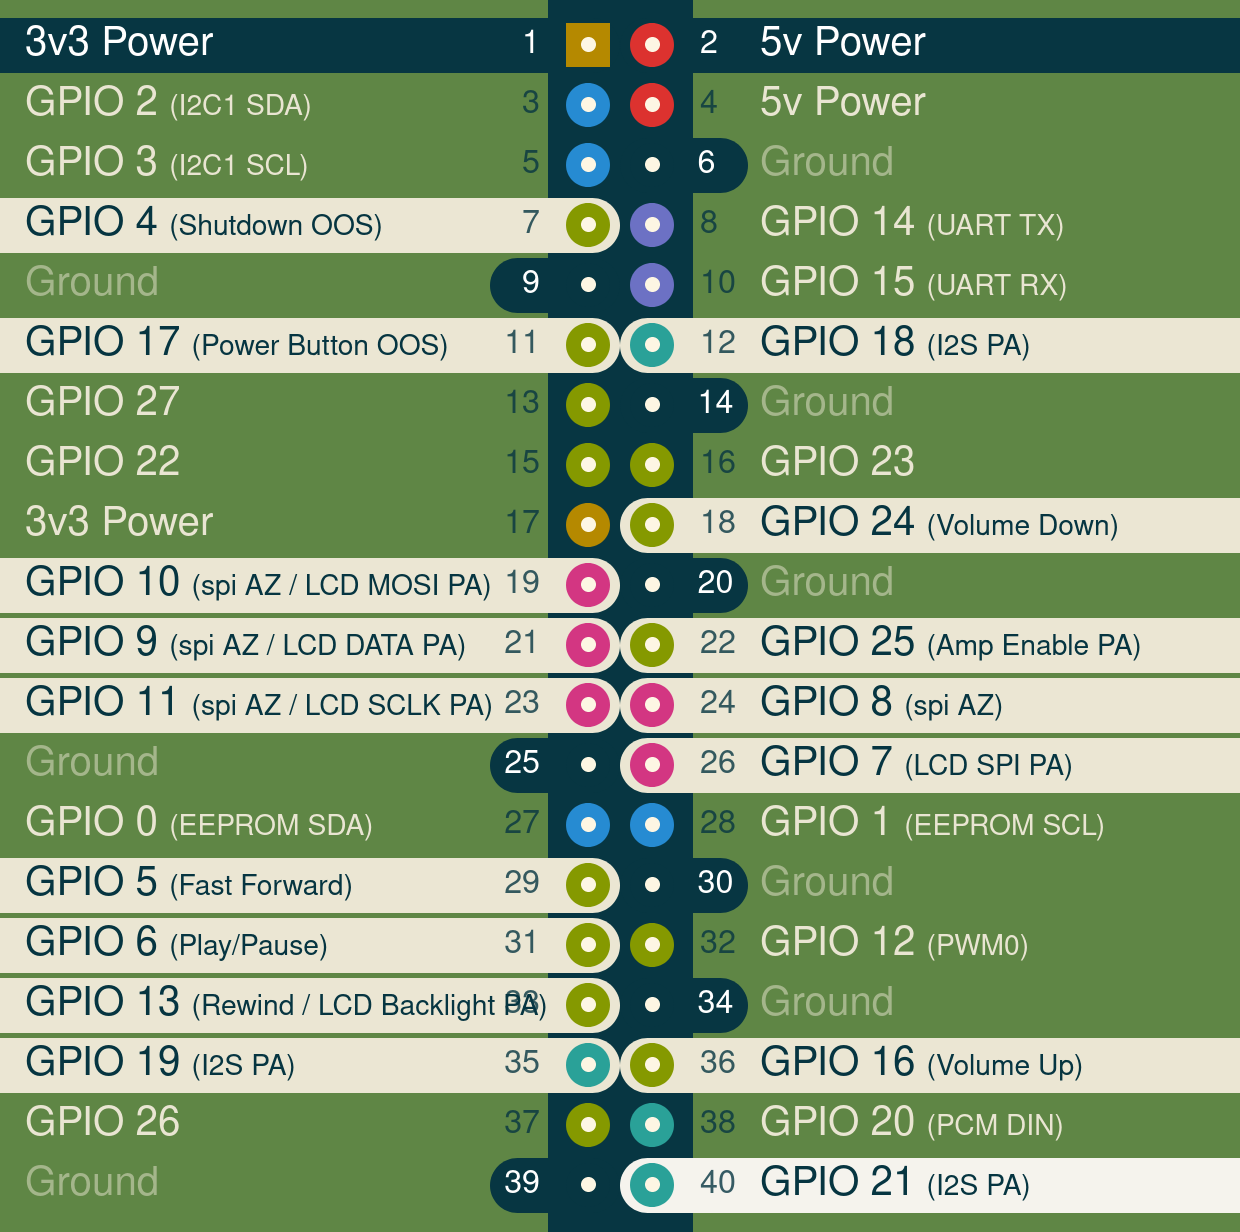
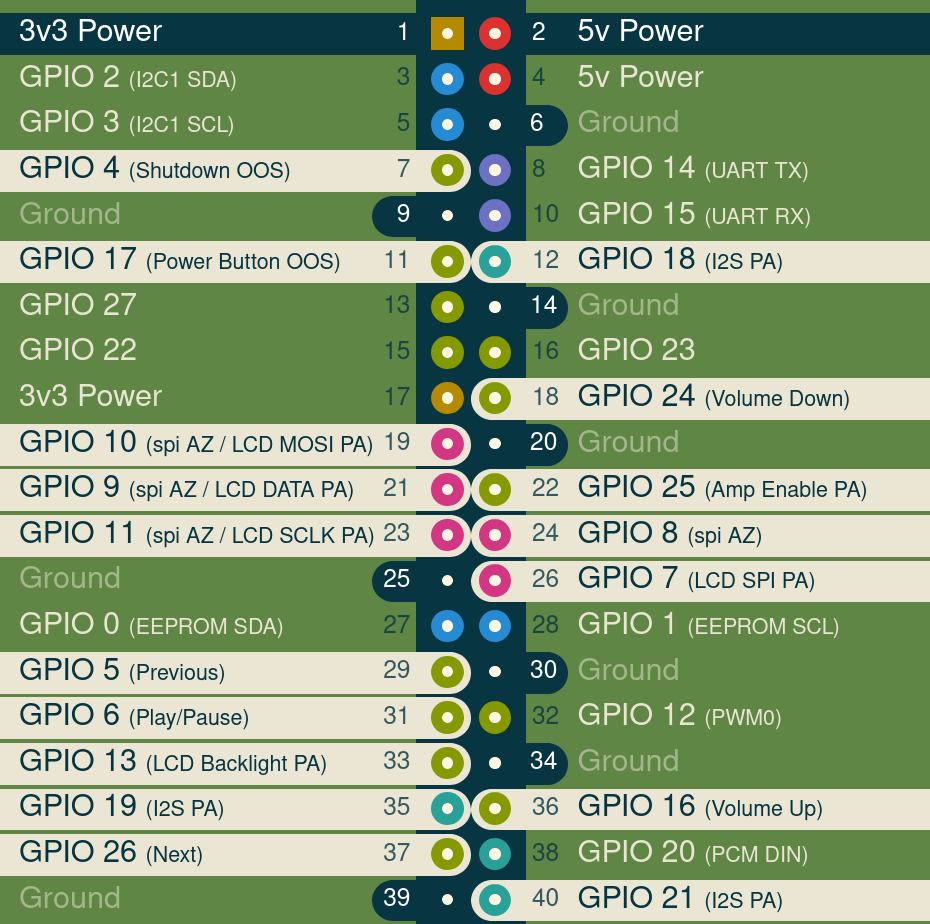
Implement the big next button

Changed region(s): [[0.0, 0.0, 1.0, 1.0], [0.0312, 0.0, 0.2495, 0.0909]]

diff --git a/stage2/04-pirate-radio/files/usr/local/lib/radio-interface/interface.py b/stage2/04-pirate-radio/files/usr/local/lib/radio-interface/interface.py
@@ -28,12 +28,12 @@ audio.repeat(True)
 systemd.daemon.notify("READY=1")
 
 # Assign the buttons to their corresponding GPIOs
-fast_forward_button = Button(5)
+fast_forward_button = Button(26)
+rewind_button = Button(5)
 play_pause_button = Button(6)
 volume_up_button = Button(16)
 volume_down_button = Button(24)
 on_off_button = Button(17)
-rewind_button = Button(13)
 
 # Define what actions to set for each button event
 fast_forward_button.when_pressed = audio.next

diff --git a/README.md b/README.md
@@ -150,5 +150,15 @@ Powers and grounds don't appear in the picture, here is their pinout:
 The first channel of the Raspio Analog Zero (channel 0) is expecting to receive a potentiometer to set the sound volume:
 plug the ends of the potentiometer to 3.3v and ground, then plug the wiper (usually found in the middle of the three tabs) into the first channel of the Analog Zero.
 
+These are the instructions to generate the image of the pins layout:
+- cd to pinout directory
+- edit `src/en/overlay/transistor.md`
+- `docker build -t pinout.xyz .`
+- `docker run -p 5000:5000 -e PINOUT_LANG=en pinout.xyz`
+- in browser open `http://localhost:5000/pinout/transistor`
+- `docker stop container_name`
+- `docker rm container_name`
+- `docker rmi pinout.xyz`
+
 ## Contribution
 Issues and pull requests are welcome.
